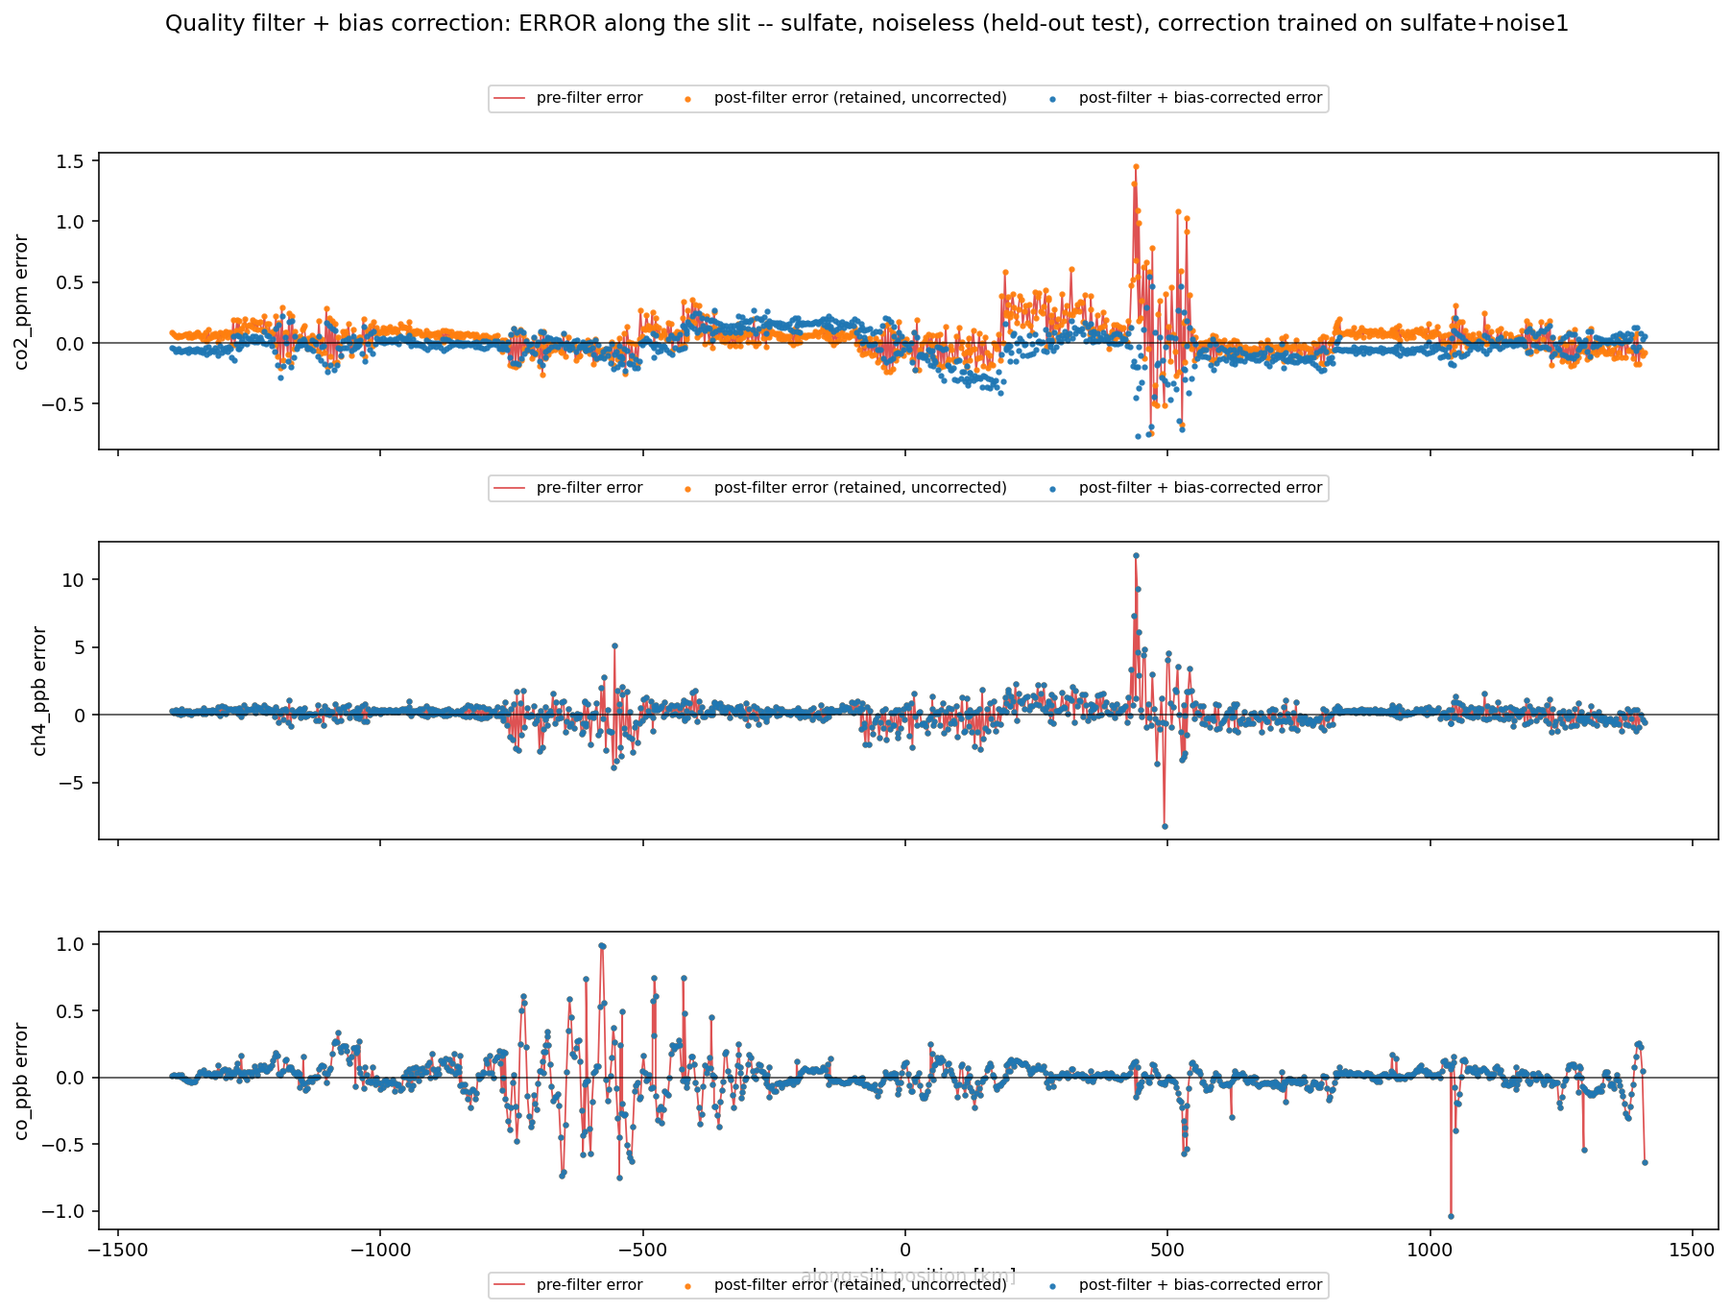
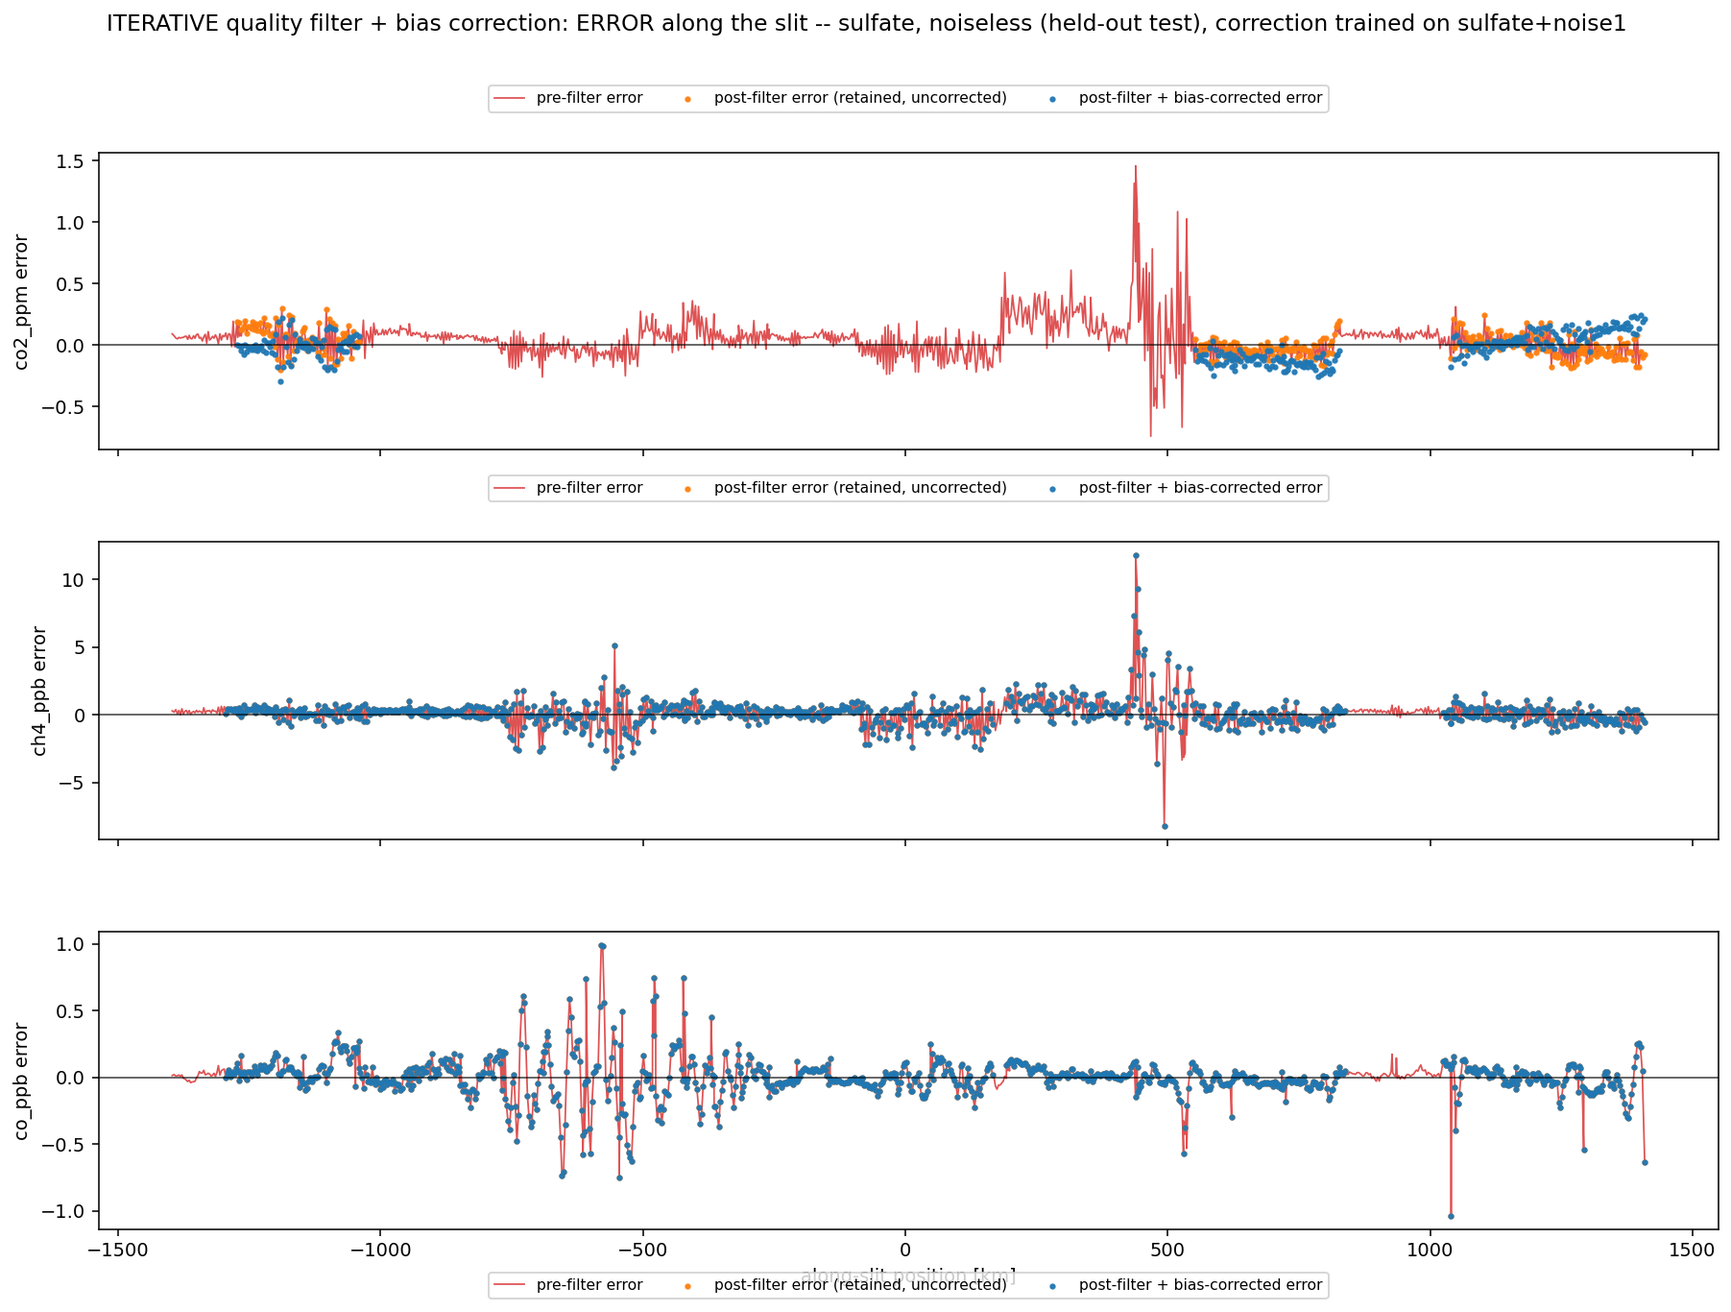
Add iterative ACOS-style filter+correction with posterior amp/height variance-range filter
- Investigated posterior amplitude_aerosol/height_aerosol (not just prior-deltas) as CO2-error
  covariates: no mean relationship (near-zero correlation under linear/log/sq/abs/inverse
  transforms), but a clear variance pattern -- CO2 error fans into a funnel as amp_ret -> 0 and
  near both edges of height_aerosol's prior range, flagging where the degeneracy is least
  resolved rather than a correctable bias.
- Added variance_range_filter: truncates each covariate to the largest contiguous quantile-bin
  run whose local CO2-error std stays within 1.5x the median bin's std.
- Restructured the filter+correction pipeline to iterate (trial filter -> correct -> re-filter
  the residual -> correct again), matching real ACOS practice, stopping per-target once a
  regression fails the CV gate or an iteration's own RMS gain falls below 1%.
- Result: CO2 RMS reduction improves from 22.8% to 32.6% (CV R^2 0.054 -> 0.220); CH4/CO still
  correctly rejected by the CV gate (no real coupling to aerosol/p_surface).

Claude-Session: https://claude.ai/code/session_01F6HLSeGTXguZfKDC2CaZzV

diff --git a/scripts/aerosol_quality_filter_bias_correction.py b/scripts/aerosol_quality_filter_bias_correction.py
@@ -22,6 +22,12 @@ Covariates are everything operationally available without knowing truth: dp (ret
 d_amplitude/d_height (retrieved - prior aerosol), 4 retrieved per-band albedos, and the tile's own reduced
 chi^2.
 
+**Iterative (2026-10-01, user: "ACOS does this in an iterative way. Trial filter, bias correct, new trial
+filter, additional bias correction."):** matches O'Dell et al. 2018's own practice -- the quality filter and
+the regression are refit against the CURRENT residual each pass (trial filter -> fit+apply correction ->
+re-filter the now-smaller residual -> fit+apply another correction -> ...), stopping per-target once a trial
+regression fails the CV gate or an iteration's own relative RMS gain falls below `ITER_STOP_GAIN`.
+
     PYTHONPATH=.:<gert> python scripts/aerosol_quality_filter_bias_correction.py
 """
 import glob
@@ -68,7 +74,7 @@ def truth_of(name, x_km, label=None):
 
 def build_dataset(pattern):
     """One row per BIN across every tile matching `pattern`: covariates + per-target (retrieved - truth)."""
-    all_cov_names = ["dp", "d_amp", "d_height", "chi2_red"] + [n for n, _ in ALBEDO_ROWS]
+    all_cov_names = ["dp", "d_amp", "d_height", "chi2_red", "amp_ret", "h_ret"] + [n for n, _ in ALBEDO_ROWS]
     cov_cols = {c: [] for c in all_cov_names}     # compute every covariate regardless of COV_NAMES (used for
                                                   # the quality filter's own dp/chi2_red even when the
                                                   # regression itself only stacks a subset at the end below)
@@ -98,6 +104,8 @@ def build_dataset(pattern):
         cov_cols["d_amp"].append(amp_ret - amp_pri)
         cov_cols["d_height"].append(h_ret - h_pri)
         cov_cols["chi2_red"].append(np.full(n, chi2_red))
+        cov_cols["amp_ret"].append(amp_ret)
+        cov_cols["h_ret"].append(h_ret)
         for name, label in ALBEDO_ROWS:
             pa = params[name]
             xa = np.asarray(pa["positions"], dtype=float) * als.SLIT_HALF_KM
@@ -152,106 +160,153 @@ def cv_r2(X1, y, k=5, seed=0):
     return 1.0 - sse / sst
 
 
-# ---- quality filter FIRST: thresholds on |dp| and chi2_red fit on TRAIN. Computed before the regression
-# (reordered 2026-10-01, user: "did you train the bias correction only on the filtered data?" -- it hadn't
-# been; ACOS itself fits its own bias correction only on quality-filtered soundings, precisely so outlier/
-# bad-quality cases don't skew the least-squares fit via high leverage).
-#
-# **Filter design criterion (user, 2026-10-01): "the filtering should be done to restrict the relationships
-# between the error and covariates to a linear regime"** -- NOT simply whichever threshold minimizes train
-# RMS (the earlier version). A linear bias correction is only a valid model where the true error-vs-covariate
-# relationship actually IS close to linear; applying it outside that regime is model misspecification, not
-# just "a bit more uncertain" -- exactly what made the out-of-domain full-set correction above 17.2% WORSE
-# for CO2. So the threshold search below picks the MOST INCLUSIVE (dp_cut, chi2_cut) pair for which a linear
-# fit's own residuals show no remaining trend against dp or dp^2 within the retained range (|corr(resid, dp)|
-# and |corr(resid, dp^2)| both below `LIN_TOL`) -- a direct linearity diagnostic, not an RMS-outcome proxy for
-# one. Falls back to the narrowest (most conservative) grid point if no cut passes the diagnostic.
+# ---- ACOS-style ITERATIVE filter/correct loop (user, 2026-10-01: "ACOS does this in an iterative way.
+# Trial filter, bias correct, new trial filter, additional bias correction.") -- each iteration: (1) fit a
+# trial quality filter (linear-regime dp/chi2_red cut + variance-range amp_ret/h_ret cut) against the
+# CURRENT residual, (2) fit+CV-gate a bias-correction regression on the filtered TRAIN subset, (3) apply it
+# (TRAIN and TEST) to get a new, smaller residual, (4) repeat: the next iteration's filter and regression see
+# the POST-correction residual, so they can pick up any secondary structure the first pass left behind. Stops
+# per-target when a trial regression fails the CV gate (nothing left worth correcting) or the iteration's own
+# relative RMS gain (on the filtered TRAIN subset) drops below `ITER_STOP_GAIN`.
 LIN_TOL = 0.15             # |corr(residual, dp-or-dp^2)| must stay below this within the retained regime
-print(f"{'target':10s} {'dp cut':>10s} {'train retained':>14s} {'test retained':>14s}  (linear-regime filter)")
-dp_tr, chi2_tr = Xf_train["dp"], Xf_train["chi2_red"]
-dp_te, chi2_te = Xf_test["dp"], Xf_test["chi2_red"]
-filter_info = {}
-for name in TARGETS:
-    y_tr = Y_train[name]
-    best = None          # most inclusive (highest retained fraction) cut that still passes the linearity check
-    fallback = None       # narrowest cut tried, in case nothing passes
+STD_MULT = 1.5             # local std must stay within this factor of the best-constrained bin's std
+VAR_FILTER_COVS = ["amp_ret", "h_ret"]
+CV_R2_GATE = 0.05          # below this, the regression is not meaningfully predictive on TRAIN itself -- don't apply it
+ITER_STOP_GAIN = 0.01      # stop iterating once an iteration's relative RMS gain (on filtered TRAIN) drops below this
+MAX_ITERS = 4
+
+
+def linear_regime_cut(dp_tr, chi2_tr, y_tr):
+    """Most-inclusive (dp_cut, chi2_cut) quantile pair whose OWN linear-fit residuals show no remaining trend
+    against dp or dp^2 (the same diagnostic as before, now reusable per-iteration since y_tr changes)."""
+    best = None
+    fallback = None
     for dp_q in (0.5, 0.6, 0.7, 0.8, 0.9, 1.0):
         for c2_q in (0.5, 0.6, 0.7, 0.8, 0.9, 1.0):
             dp_cut = np.quantile(np.abs(dp_tr), dp_q)
             c2_cut = np.quantile(chi2_tr, c2_q)
-            keep_tr = (np.abs(dp_tr) <= dp_cut) & (chi2_tr <= c2_cut)
-            if keep_tr.sum() < 10:
+            keep = (np.abs(dp_tr) <= dp_cut) & (chi2_tr <= c2_cut)
+            if keep.sum() < 10:
                 continue
-            dp_k, y_k = dp_tr[keep_tr], y_tr[keep_tr]
+            dp_k, y_k = dp_tr[keep], y_tr[keep]
             A = np.column_stack([dp_k, np.ones(dp_k.size)])
             coef, *_ = np.linalg.lstsq(A, y_k, rcond=None)
             resid = y_k - A @ coef
             c1 = abs(np.corrcoef(resid, dp_k)[0, 1]) if np.std(dp_k) > 0 else 0.0
             c2v = abs(np.corrcoef(resid, dp_k ** 2)[0, 1]) if np.std(dp_k) > 0 else 0.0
             linear_ok = (c1 < LIN_TOL) and (c2v < LIN_TOL)
-            if fallback is None or keep_tr.mean() < fallback[0]:
-                fallback = (keep_tr.mean(), dp_cut, c2_cut)
-            if linear_ok and (best is None or keep_tr.mean() > best[0]):
-                best = (keep_tr.mean(), dp_cut, c2_cut)
+            if fallback is None or keep.mean() < fallback[0]:
+                fallback = (keep.mean(), dp_cut, c2_cut)
+            if linear_ok and (best is None or keep.mean() > best[0]):
+                best = (keep.mean(), dp_cut, c2_cut)
     _, dp_cut, c2_cut = best if best is not None else fallback
-    keep_tr = (np.abs(dp_tr) <= dp_cut) & (chi2_tr <= c2_cut)
-    keep_te = (np.abs(dp_te) <= dp_cut) & (chi2_te <= c2_cut)
-    filter_info[name] = dict(dp_cut=dp_cut, c2_cut=c2_cut, keep_tr=keep_tr, keep_te=keep_te)
-    print(f"{name:10s} {dp_cut:10.3g} {keep_tr.mean()*100:13.1f}% {keep_te.mean()*100:13.1f}%"
-         f"  {'(linear OK)' if best is not None else '(fallback -- no cut passed)'}")
+    return dp_cut, c2_cut, best is not None
 
-# ---- bias correction: fit ONLY on the filtered (quality-passing) TRAIN bins. Real pipeline order (both
-# here and in ACOS itself): FILTER FIRST, then correct only the survivors -- the correction is fit on, and
-# therefore only valid within, the "good" (small-dp) covariate regime the filter defines. Applying it to a
-# bin the filter would have rejected is extrapolation outside where it was ever fit, and (checked directly,
-# 2026-10-01, user: "did you train the bias correction only on the filtered data?") makes CO2 actively WORSE
-# (-17.2% applied to the full unfiltered test set) even though the same regression, applied only to the
-# filtered test bins it's actually valid for, still helps.
-print(f"\n{'target':10s} {'train CV R2':>12s} {'apply?':>7s} coefficients ({', '.join(COV_NAMES)}, intercept)")
+
+def variance_range_filter(cov_vals, y, n_bins=10, std_mult=STD_MULT, min_per_bin=15):
+    """Contiguous [lo, hi] range of `cov_vals`: bin it into quantile bins, flag bins whose local std of y
+    exceeds `std_mult` x the MEDIAN bin std (a robust "reasonable" baseline), then keep the MOST INCLUSIVE
+    (largest-population) contiguous run of non-flagged bins -- see [[geocarb-acos-bias-correction]]: these
+    covariates flag WHERE the amplitude/height degeneracy is least resolved (a variance effect), not a
+    correctable mean bias, so they're used as a range filter, not a regression covariate.
+
+    Two earlier versions both broke (caught 2026-10-01): (1) anchoring on the single lowest-std bin was too
+    noisy -- with ~90 points/bin, bin-to-bin std fluctuates by chance alone, so one unlucky-low bin could set
+    an unreasonably strict threshold and crush retention to ~4%; (2) anchoring expansion on the bin containing
+    the covariate's own median, when THAT bin itself happened to be flagged (e.g. CO2's amp_ret: the median
+    bin sat right at the edge of a genuine elevated-variance region), collapsed to a single narrow bin.
+    Picking the largest surviving contiguous run directly (the same "most inclusive passing cut" discipline
+    used by the dp/chi2_red linear-regime filter above) avoids both failure modes."""
+    edges = np.quantile(cov_vals, np.linspace(0, 1, n_bins + 1))
+    edges[0] -= 1e-12
+    edges[-1] += 1e-12
+    bin_idx = np.clip(np.digitize(cov_vals, edges) - 1, 0, n_bins - 1)
+    stds = np.full(n_bins, np.nan)
+    counts = np.zeros(n_bins, dtype=int)
+    for b in range(n_bins):
+        m = bin_idx == b
+        counts[b] = m.sum()
+        if counts[b] >= min_per_bin:
+            stds[b] = y[m].std()
+    if np.all(np.isnan(stds)):
+        return cov_vals.min(), cov_vals.max()
+    threshold = std_mult * np.nanmedian(stds)
+    good = np.where(np.isnan(stds), False, stds <= threshold)
+    best_run, best_count = (0, n_bins), -1
+    lo_b = 0
+    while lo_b < n_bins:
+        if not good[lo_b]:
+            lo_b += 1
+            continue
+        hi_b = lo_b
+        while hi_b + 1 < n_bins and good[hi_b + 1]:
+            hi_b += 1
+        run_count = counts[lo_b:hi_b + 1].sum()
+        if run_count > best_count:
+            best_run, best_count = (lo_b, hi_b), run_count
+        lo_b = hi_b + 1
+    lo_b, hi_b = best_run
+    return edges[lo_b], edges[hi_b + 1]
+
+
+def trial_filter(y_tr, name):
+    """One trial filter against the CURRENT residual y_tr: linear-regime dp/chi2_red cut, then variance-range
+    amp_ret/h_ret cut computed within that cut's survivors. Returns keep_tr, keep_te, and the cut bounds."""
+    dp_cut, c2_cut, lin_ok = linear_regime_cut(Xf_train["dp"], Xf_train["chi2_red"], y_tr)
+    keep_tr = (np.abs(Xf_train["dp"]) <= dp_cut) & (Xf_train["chi2_red"] <= c2_cut)
+    keep_te = (np.abs(Xf_test["dp"]) <= dp_cut) & (Xf_test["chi2_red"] <= c2_cut)
+    bounds = dict(dp_cut=dp_cut, c2_cut=c2_cut, lin_ok=lin_ok)
+    for cov in VAR_FILTER_COVS:
+        lo, hi = variance_range_filter(Xf_train[cov][keep_tr], y_tr[keep_tr])
+        keep_tr = keep_tr & (Xf_train[cov] >= lo) & (Xf_train[cov] <= hi)
+        keep_te = keep_te & (Xf_test[cov] >= lo) & (Xf_test[cov] <= hi)
+        bounds[f"{cov}_lo"], bounds[f"{cov}_hi"] = lo, hi
+    return keep_tr, keep_te, bounds
+
+
+print(f"\n{'target':10s} {'it':>3s} {'retained(tr)':>13s} {'retained(te)':>13s} {'CV R2':>8s} {'apply?':>7s}"
+     f" {'rms(filt te)':>13s} {'gain':>8s}  coefficients ({', '.join(COV_NAMES)}, intercept)")
 results = {}
-CV_R2_GATE = 0.05        # below this, the regression is not meaningfully predictive on TRAIN itself -- don't apply it
 for name in TARGETS:
-    keep_tr = filter_info[name]["keep_tr"]
-    y_tr_all, y_te = Y_train[name], Y_test[name]
-    X_tr_f, y_tr_f = X_train1[keep_tr], y_tr_all[keep_tr]     # filtered training subset only
-    r2 = cv_r2(X_tr_f, y_tr_f)
-    coef, *_ = np.linalg.lstsq(X_tr_f, y_tr_f, rcond=None)
-    apply_corr = r2 >= CV_R2_GATE
-    results[name] = dict(y_te=y_te, coef=coef, cv_r2=r2, applied=apply_corr)
-    coef_s = ", ".join(f"{c:+.3g}" for c in coef)
-    print(f"{name:10s} {r2:12.3f} {'yes' if apply_corr else 'NO':>7s}  [{coef_s}]")
+    y_tr_cur = Y_train[name].copy()
+    y_te_cur = Y_test[name].copy()
+    rms_before = float(np.sqrt(np.mean(Y_test[name] ** 2)))
+    history = []
+    final = None
+    for it in range(MAX_ITERS):
+        keep_tr, keep_te, bounds = trial_filter(y_tr_cur, name)
+        X_tr_f, y_tr_f = X_train1[keep_tr], y_tr_cur[keep_tr]
+        r2 = cv_r2(X_tr_f, y_tr_f) if keep_tr.sum() > 2 * X_train1.shape[1] else -np.inf
+        coef, *_ = np.linalg.lstsq(X_tr_f, y_tr_f, rcond=None)
+        applied = r2 >= CV_R2_GATE
 
-print(f"\n{'target':10s} {'dp cut':>10s} {'retained':>10s} {'rms before':>12s} {'rms filtered':>13s} {'%improved':>10s}")
-for name in TARGETS:
-    y_te = Y_test[name]
-    keep_te = filter_info[name]["keep_te"]
-    rms_before = float(np.sqrt(np.mean(y_te ** 2)))
-    rms_after = float(np.sqrt(np.mean(y_te[keep_te] ** 2))) if keep_te.any() else float("nan")
-    pct = 100.0 * (1.0 - rms_after / rms_before)
-    print(f"{name:10s} {filter_info[name]['dp_cut']:10.3g} {keep_te.mean()*100:9.1f}% {rms_before:12.4g} {rms_after:13.4g} {pct:9.1f}%")
-    results[name]["keep_te"] = keep_te
-    results[name]["rms_before"] = rms_before
+        rms_filt_before_it = float(np.sqrt(np.mean(y_te_cur[keep_te] ** 2))) if keep_te.any() else float("nan")
+        if applied:
+            y_tr_cur = y_tr_cur.copy()
+            y_te_cur = y_te_cur.copy()
+            y_tr_cur[keep_tr] = y_tr_cur[keep_tr] - X_train1[keep_tr] @ coef
+            y_te_cur[keep_te] = y_te_cur[keep_te] - X_test1[keep_te] @ coef
+        rms_filt_after_it = float(np.sqrt(np.mean(y_te_cur[keep_te] ** 2))) if keep_te.any() else float("nan")
+        gain = 1.0 - rms_filt_after_it / rms_filt_before_it if (applied and rms_filt_before_it > 0) else 0.0
 
-# ---- real combined pipeline: filter TEST, then correct ONLY the survivors. `y_corr` is a full-length array
-# with the correction applied where valid (retained bins) and left AS-IS (uncorrected) where not -- the
-# filter already drops those from any RMS/plot that only looks at retained bins; keeping them as raw rather
-# than (invalidly) corrected values if a caller ever looks at the unfiltered array by mistake.
-print(f"\n{'target':10s} {'rms before':>12s} {'rms filt+corr':>14s} {'%improved':>10s} {'retained':>10s}  (out-of-domain full-set correction, NOT the real pipeline, for comparison: %improved)")
-for name in TARGETS:
-    r = results[name]
-    y_te, keep = r["y_te"], r["keep_te"]
-    y_corr = y_te.copy()
-    if r["applied"]:
-        y_corr[keep] = y_te[keep] - X_test1[keep] @ r["coef"]
-    r["y_corr"] = y_corr
-    rms_after = float(np.sqrt(np.mean(y_corr[keep] ** 2))) if keep.any() else float("nan")
-    pct = 100.0 * (1.0 - rms_after / r["rms_before"])
-    # out-of-domain comparison number only (never applied/plotted): the full-set correction, for the record
-    pred_full = X_test1 @ r["coef"] if r["applied"] else np.zeros_like(y_te)
-    rms_full_corr = float(np.sqrt(np.mean((y_te - pred_full) ** 2)))
-    pct_full = 100.0 * (1.0 - rms_full_corr / r["rms_before"])
-    print(f"{name:10s} {r['rms_before']:12.4g} {rms_after:14.4g} {pct:9.1f}% {keep.mean()*100:9.1f}%  ({pct_full:+.1f}%)")
-    r["rms_filt_corr"] = rms_after
+        coef_s = ", ".join(f"{c:+.3g}" for c in coef)
+        print(f"{name:10s} {it:3d} {keep_tr.mean()*100:12.1f}% {keep_te.mean()*100:12.1f}% {r2:8.3f}"
+             f" {'yes' if applied else 'NO':>7s} {rms_filt_after_it:13.4g} {gain*100:7.1f}%  [{coef_s}]")
+        history.append(dict(it=it, keep_tr=keep_tr, keep_te=keep_te, bounds=bounds, r2=r2,
+                            applied=applied, coef=coef, gain=gain))
+        final = history[-1]
+        if not applied or gain < ITER_STOP_GAIN:
+            break
+
+    keep_te = final["keep_te"]
+    results[name] = dict(y_te=Y_test[name], y_corr=y_te_cur, keep_te=keep_te, rms_before=rms_before,
+                         coef=final["coef"], cv_r2=final["r2"], applied=any(h["applied"] for h in history),
+                         n_iters=len(history), dp_cut=final["bounds"]["dp_cut"])
+    rms_filt_corr = float(np.sqrt(np.mean(y_te_cur[keep_te] ** 2))) if keep_te.any() else float("nan")
+    results[name]["rms_filt_corr"] = rms_filt_corr
+    print(f"{name:10s} -> converged after {len(history)} iteration(s), final retained(te)="
+         f"{keep_te.mean()*100:.1f}%, rms {rms_before:.4g} -> {rms_filt_corr:.4g}"
+         f" ({100*(1 - rms_filt_corr/rms_before):+.1f}%)\n")
 
 fig, axes = plt.subplots(1, 3, figsize=(15, 4))
 for ax, name in zip(axes, TARGETS):
@@ -269,10 +324,10 @@ for ax, name in zip(axes, TARGETS):
     ax.hist(y_filt_corr, bins=bins, histtype="step", lw=1.6, density=True, color="tab:green",
            label=f"filtered+corrected: rms {r['rms_filt_corr']:.3g}")
     ax.axvline(0.0, color="k", lw=0.8, alpha=0.5)
-    ax.set_title(name)
+    ax.set_title(f"{name} ({r['n_iters']} iteration{'s' if r['n_iters'] != 1 else ''})")
     ax.legend(fontsize=8)
-fig.suptitle("ACOS-style quality filter + bias correction -- trained on sulfate+noise1 (filter THEN correct, "
-            "both fit on filtered train only), evaluated on noiseless sulfate")
+fig.suptitle("ACOS-style ITERATIVE quality filter + bias correction -- trained on sulfate+noise1 (trial filter, "
+            "correct, re-filter the residual, correct again), evaluated on noiseless sulfate")
 fig.tight_layout()
 out = REPO / "plots/aerosol_quality_filter_bias_correction.png"
 fig.savefig(out, dpi=140, bbox_inches="tight")
@@ -303,7 +358,7 @@ for ax, name in zip(axes, TARGETS):
     ax.set_ylabel(name)
     ax.legend(fontsize=8, ncol=4, loc="upper center", bbox_to_anchor=(0.5, -0.12 if ax is axes[-1] else 1.25))
 axes[-1].set_xlabel("along-slit position [km]")
-fig.suptitle("Quality filter + bias correction along the slit -- sulfate, noiseless (held-out test), "
+fig.suptitle("ITERATIVE quality filter + bias correction along the slit -- sulfate, noiseless (held-out test), "
             "correction trained on sulfate+noise1", y=1.01)
 fig.tight_layout()
 out2 = REPO / "plots/aerosol_quality_filter_along_slit.png"
@@ -330,8 +385,8 @@ for ax, name in zip(axes, TARGETS):
     ax.set_ylabel(f"{name} error")
     ax.legend(fontsize=8, ncol=3, loc="upper center", bbox_to_anchor=(0.5, -0.12 if ax is axes[-1] else 1.25))
 axes[-1].set_xlabel("along-slit position [km]")
-fig.suptitle("Quality filter + bias correction: ERROR along the slit -- sulfate, noiseless (held-out test), "
-            "correction trained on sulfate+noise1", y=1.01)
+fig.suptitle("ITERATIVE quality filter + bias correction: ERROR along the slit -- sulfate, noiseless (held-out "
+            "test), correction trained on sulfate+noise1", y=1.01)
 fig.tight_layout()
 out3 = REPO / "plots/aerosol_quality_filter_along_slit_error.png"
 fig.savefig(out3, dpi=140, bbox_inches="tight")
